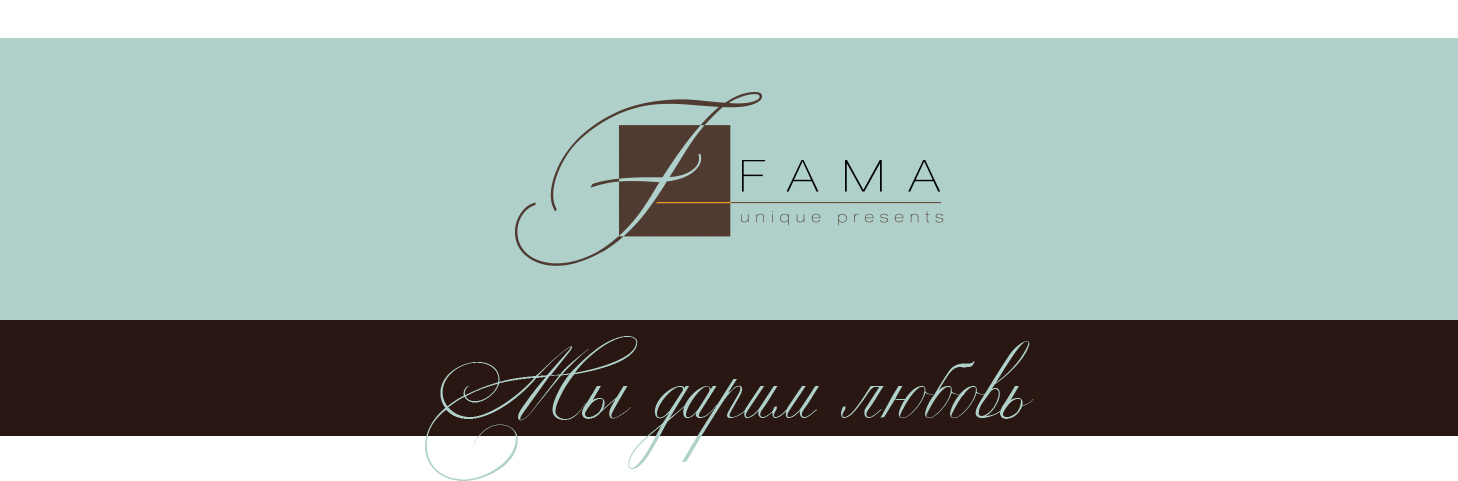
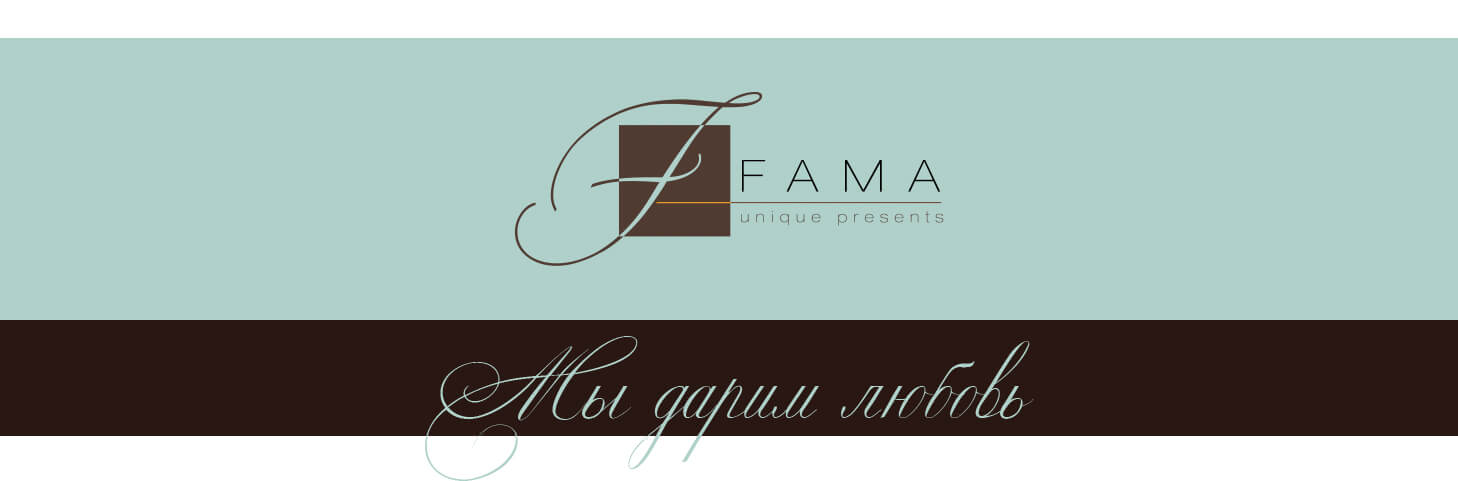
tinypng

diff --git a/email.html b/email.html
@@ -113,9 +113,9 @@
                     </td>
                     <td width="10%" class="hidden">&nbsp;</td>
                   </tr>
-                  <tr style="background: #abcec9;">
+                  <tr bgcolor="#abcec9">
                     <td width="10%" class="hidden">&nbsp;</td>
-                    <td width="" class="">
+                    <td>
                       <p style="color: #2a1712; font-size: 29px; padding: 10px 0 20px;">
                         МЫ ПРИНИМАЕМ И ОБРАБАТЫВАЕМ ВАШИ ЗАКАЗЫ КРУГЛОСУТОЧНО.
                         ДОСТАВКА И КОНСУЛЬТАЦИИ – ЕЖЕДНЕВНО С 9:00 ДО 23:00
@@ -136,7 +136,7 @@
                         <tr>
                           <td width="10%" class="hidden">&nbsp;</td>
                           <td class="">
-                            <img src="pasotti.jpg" alt="" />
+                            <img src="pasotti.jpg" alt="pasotti" style="font-size: 25px; color: #2a1712;" />
                             <td style="text-align: right;">
                               <p style="font-size: 25px; color: #5d5e5e; line-height: 30px;">
                                 Поп дива Хилари Дафф, Дженнифер Лопес, актриса Мерил Стрип не выходят в дождливую погоду без Pasotti... Специальная цена на женские и мужские модели к осеннему сезону от FAMA.   
@@ -149,10 +149,10 @@
                     </td>
                   </tr>
                   <tr>
-                    <td height="40px;">&nbsp;</td>
+                    <td height="40px">&nbsp;</td>
                   </tr>
                   <tr>
-                    <td style="background: url('1.jpg') no-repeat 50%; -webkit-background-size: cover; background-size: cover; min-height: 525px;">
+                    <td background="1.jpg" style="background-repeat: no-repeat 50%; -webkit-background-size: cover; background-size: cover; min-height: 525px;">
                       <table style="margin: 0 auto;" cellpadding="0" cellspacing="0" width="100%" style="margin:0 auto;">
                       <tr>
                         <td height="12px"></td>
